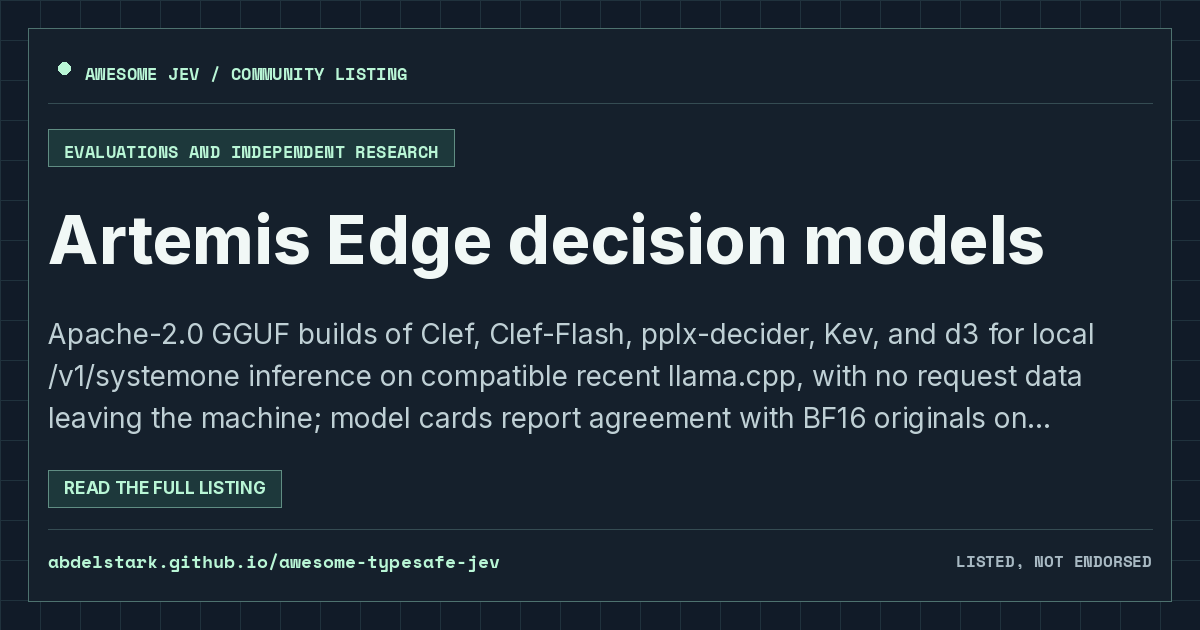
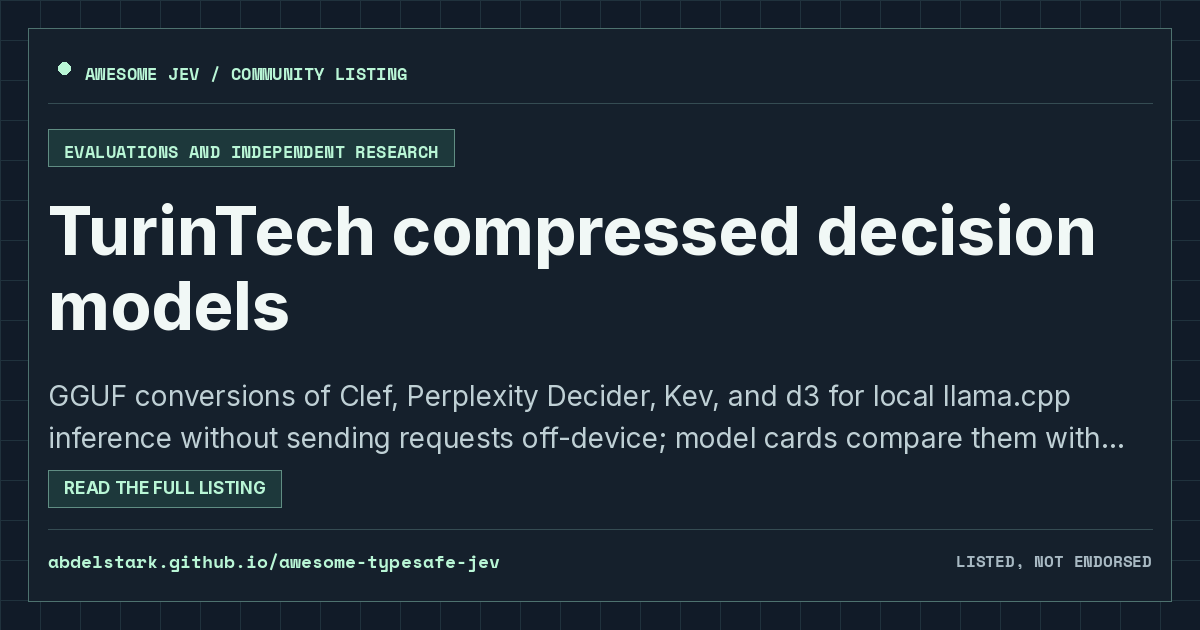
Regenerate site files and keep the TurinTech project page URL
The collection moved to a new slug. A permalink override keeps the
existing project page and card at their old paths, as done for the
Jev Chat move.

Changed region(s): [[0.0308, 0.4524, 0.925, 0.7238], [0.0308, 0.3016, 0.925, 0.4524]]

diff --git a/projects/site-huggingface-co-collections-turintech-artemis-edge-decision-models-6accea74eb7016a886f25fdb.html b/projects/site-huggingface-co-collections-turintech-artemis-edge-decision-models-6accea74eb7016a886f25fdb.html
@@ -1,26 +1,26 @@
 ---
 layout: "resource"
-title: "Artemis Edge decision models | Awesome Jev"
-description: "Apache-2.0 GGUF builds of Clef, Clef-Flash, pplx-decider, Kev, and d3 for local /v1/systemone inference on compatible recent llama.cpp, with no request data leaving the machine; model cards report agreement with BF16 originals on 2,000 decisions, held-out results, and public-quantization comparisons, while their recommended files disagree with the originals on about 2 to 8% of test decisions and smaller variants can differ more."
+title: "TurinTech compressed decision models | Awesome Jev"
+description: "GGUF conversions of Clef, Perplexity Decider, Kev, and d3 for local llama.cpp inference without sending requests off-device; model cards compare them with the originals and document quality losses."
 permalink: "/projects/site-huggingface-co-collections-turintech-artemis-edge-decision-models-6accea74eb7016a886f25fdb/"
-resource_name: "Artemis Edge decision models"
+resource_name: "TurinTech compressed decision models"
 resource_slug: "site-huggingface-co-collections-turintech-artemis-edge-decision-models-6accea74eb7016a886f25fdb"
-resource_url: "https://huggingface.co/collections/turintech/artemis-edge-decision-models-6accea74eb7016a886f25fdb"
-description_markdown: "Apache-2.0 GGUF builds of Clef, Clef-Flash, pplx-decider, Kev, and d3 for local `/v1/systemone` inference on compatible recent llama.cpp, with no request data leaving the machine; model cards report agreement with BF16 originals on 2,000 decisions, held-out results, and public-quantization comparisons, while their recommended files disagree with the originals on about 2 to 8% of test decisions and smaller variants can differ more."
+resource_url: "https://huggingface.co/collections/turintech/compressed-decision-models-6accea74eb7016a886f25fdb"
+description_markdown: "GGUF conversions of Clef, Perplexity Decider, Kev, and d3 for local llama.cpp inference without sending requests off-device; model cards compare them with the originals and document quality losses."
 category_name: "Evaluations and independent research"
 category_id: "evaluations-and-independent-research"
 social_image: "/assets/cards/site-huggingface-co-collections-turintech-artemis-edge-decision-models-6accea74eb7016a886f25fdb.png"
 related:
-  - name: "Awesome Jev Robustness"
-    permalink: "/projects/gh-yifan-lan-awesome-jev-robustness/"
-    description: "Curated index of independent Jev tests grouped by calibration, consistency, perturbation, injection, abstention, failure modes, and language; it links original sources, reports their numbers as author findings, and keeps task benchmarks without a robustness angle in a separate data file."
-    image: "/assets/cards/gh-yifan-lan-awesome-jev-robustness.png"
-  - name: "blink"
-    permalink: "/projects/gh-thegovind-blink/"
-    description: "Self-hosted typed-decision models with Apache-2.0 code that return Choice, Noul, and Score option probabilities in one forward pass per batch through a TypeSafe-compatible API; the weights are non-commercial research and evaluation only, and there is no hosted TypeSafe-compatible endpoint."
-    image: "/assets/cards/gh-thegovind-blink.png"
-  - name: "Bosun v3.1"
-    permalink: "/projects/site-huggingface-co-hanno-labs-bosun-v3-1-1-7b/"
-    description: "Apache-2.0 open-weight Qwen3 decision model family with released 0.6B and 1.7B weights and shipped choice, score, and noul inference; a separate Jev-style alternative, not hosted Jev."
-    image: "/assets/cards/site-huggingface-co-hanno-labs-bosun-v3-1-1-7b.png"
+  - name: "TypeSafe AI Benchmark"
+    permalink: "/projects/gh-iammrduncan-typesafe-ai-benchmark/"
+    description: "Side-by-side Jev and Qwen-on-Cerebras comparison with raw exports, cost accounting, methodology, and task-specific limitations."
+    image: "/assets/cards/gh-iammrduncan-typesafe-ai-benchmark.png"
+  - name: "Verdict"
+    permalink: "/projects/gh-manavarya09-verdict/"
+    description: "Apache-2.0 118M multilingual bi-encoder for Choice, Score, and Noul on a System One-compatible endpoint, with temperature scaling and optional split-conformal abstention whose coverage depends on its calibration assumptions; it can run locally on CPU or in a browser through ONNX, and the author's reported calibration and typed-decision results are task-specific, including a lower score than Laya on the published typed-decision suite."
+    image: "/assets/cards/gh-manavarya09-verdict.png"
+  - name: "Vev"
+    permalink: "/projects/gh-xiaooolong-vev/"
+    description: "Independent Jev-style decision server with vision input, fine-tuned from Qwen3.5 4B and 9B, that answers Choice, Score, and Noul questions about text, JSON, and images, with screenshots or photos placed directly in state, through a /v1/systemone-compatible server; the repository has Apache-2.0 code and per-set results on public text and image judgment sets, requests are processed on your own GPU after the weights download from Hugging Face, and the weights are CC BY-NC 4.0, for non-commercial use only."
+    image: "/assets/cards/gh-xiaooolong-vev.png"
 ---

diff --git a/categories/evaluations-and-independent-research.html b/categories/evaluations-and-independent-research.html
@@ -7,11 +7,6 @@ category_name: "Evaluations and independent research"
 category_id: "evaluations-and-independent-research"
 social_image: "/assets/category-cards/evaluations-and-independent-research.png"
 resources:
-  - name: "Artemis Edge decision models"
-    url: "https://huggingface.co/collections/turintech/artemis-edge-decision-models-6accea74eb7016a886f25fdb"
-    description: "Apache-2.0 GGUF builds of Clef, Clef-Flash, pplx-decider, Kev, and d3 for local /v1/systemone inference on compatible recent llama.cpp, with no request data leaving the machine; model cards report agreement with BF16 originals on 2,000 decisions, held-out results, and public-quantization comparisons, while their recommended files disagree with the originals on about 2 to 8% of test decisions and smaller variants can differ more."
-    permalink: "/projects/site-huggingface-co-collections-turintech-artemis-edge-decision-models-6accea74eb7016a886f25fdb/"
-    image: "/assets/cards/site-huggingface-co-collections-turintech-artemis-edge-decision-models-6accea74eb7016a886f25fdb.png"
   - name: "Awesome Jev Robustness"
     url: "https://github.com/Yifan-Lan/awesome-jev-robustness"
     description: "Curated index of independent Jev tests grouped by calibration, consistency, perturbation, injection, abstention, failure modes, and language; it links original sources, reports their numbers as author findings, and keeps task benchmarks without a robustness angle in a separate data file."
@@ -272,6 +267,11 @@ resources:
     description: "MIT-licensed, locally-deployed decision layer for complex bounded decisions: two frozen open-weight readers, four readings (letter + per-candidate yes/no) fused fit-free and routed by agreement into auto-release vs human review; eight decision suites and the RAG reranking pass benchmarked — including DecisionBench's 35 real-world task categories — with coverage–accuracy curves. It does not call the TypeSafe API, and its equal-weight fusion still trails the strongest single reading at some high-precision operating points."
     permalink: "/projects/gh-feiliuem-tetrajev/"
     image: "/assets/cards/gh-feiliuem-tetrajev.png"
+  - name: "TurinTech compressed decision models"
+    url: "https://huggingface.co/collections/turintech/compressed-decision-models-6accea74eb7016a886f25fdb"
+    description: "GGUF conversions of Clef, Perplexity Decider, Kev, and d3 for local llama.cpp inference without sending requests off-device; model cards compare them with the originals and document quality losses."
+    permalink: "/projects/site-huggingface-co-collections-turintech-artemis-edge-decision-models-6accea74eb7016a886f25fdb/"
+    image: "/assets/cards/site-huggingface-co-collections-turintech-artemis-edge-decision-models-6accea74eb7016a886f25fdb.png"
   - name: "TypeSafe AI Benchmark"
     url: "https://github.com/iammrduncan/typesafe-ai-benchmark"
     description: "Side-by-side Jev and Qwen-on-Cerebras comparison with raw exports, cost accounting, methodology, and task-specific limitations."

diff --git a/projects/gh-lexmount-webjev.html b/projects/gh-lexmount-webjev.html
@@ -15,12 +15,12 @@ related:
     permalink: "/projects/site-doi-org-10-5281-zenodo-22901853/"
     description: "Independent measurement of Jev’s typed decisions as one of three judgment layers run on identical items (Laya locally, Jev and a frontier model remotely), with per-call ledger-based cost accounting and Murphy/Brier/ECE calibration against binary ground truth; the Jev-specific findings are a verdict vocabulary reaching three values where six are documented, and a sufficient field that does not separate thin evidence from contradictory evidence, and the claim about contradiction rests on seven live readings that have no JSON artifact behind them, which the write-up states in its own errata rather than leaving to be discovered."
     image: "/assets/cards/site-doi-org-10-5281-zenodo-22901853.png"
-  - name: "Artemis Edge decision models"
-    permalink: "/projects/site-huggingface-co-collections-turintech-artemis-edge-decision-models-6accea74eb7016a886f25fdb/"
-    description: "Apache-2.0 GGUF builds of Clef, Clef-Flash, pplx-decider, Kev, and d3 for local /v1/systemone inference on compatible recent llama.cpp, with no request data leaving the machine; model cards report agreement with BF16 originals on 2,000 decisions, held-out results, and public-quantization comparisons, while their recommended files disagree with the originals on about 2 to 8% of test decisions and smaller variants can differ more."
-    image: "/assets/cards/site-huggingface-co-collections-turintech-artemis-edge-decision-models-6accea74eb7016a886f25fdb.png"
   - name: "Awesome Jev Robustness"
     permalink: "/projects/gh-yifan-lan-awesome-jev-robustness/"
     description: "Curated index of independent Jev tests grouped by calibration, consistency, perturbation, injection, abstention, failure modes, and language; it links original sources, reports their numbers as author findings, and keeps task benchmarks without a robustness angle in a separate data file."
     image: "/assets/cards/gh-yifan-lan-awesome-jev-robustness.png"
+  - name: "blink"
+    permalink: "/projects/gh-thegovind-blink/"
+    description: "Self-hosted typed-decision models with Apache-2.0 code that return Choice, Noul, and Score option probabilities in one forward pass per batch through a TypeSafe-compatible API; the weights are non-commercial research and evaluation only, and there is no hosted TypeSafe-compatible endpoint."
+    image: "/assets/cards/gh-thegovind-blink.png"
 ---

diff --git a/projects/gh-feiliuem-tetrajev.html b/projects/gh-feiliuem-tetrajev.html
@@ -11,6 +11,10 @@ category_name: "Evaluations and independent research"
 category_id: "evaluations-and-independent-research"
 social_image: "/assets/cards/gh-feiliuem-tetrajev.png"
 related:
+  - name: "TurinTech compressed decision models"
+    permalink: "/projects/site-huggingface-co-collections-turintech-artemis-edge-decision-models-6accea74eb7016a886f25fdb/"
+    description: "GGUF conversions of Clef, Perplexity Decider, Kev, and d3 for local llama.cpp inference without sending requests off-device; model cards compare them with the originals and document quality losses."
+    image: "/assets/cards/site-huggingface-co-collections-turintech-artemis-edge-decision-models-6accea74eb7016a886f25fdb.png"
   - name: "TypeSafe AI Benchmark"
     permalink: "/projects/gh-iammrduncan-typesafe-ai-benchmark/"
     description: "Side-by-side Jev and Qwen-on-Cerebras comparison with raw exports, cost accounting, methodology, and task-specific limitations."
@@ -19,8 +23,4 @@ related:
     permalink: "/projects/gh-manavarya09-verdict/"
     description: "Apache-2.0 118M multilingual bi-encoder for Choice, Score, and Noul on a System One-compatible endpoint, with temperature scaling and optional split-conformal abstention whose coverage depends on its calibration assumptions; it can run locally on CPU or in a browser through ONNX, and the author's reported calibration and typed-decision results are task-specific, including a lower score than Laya on the published typed-decision suite."
     image: "/assets/cards/gh-manavarya09-verdict.png"
-  - name: "Vev"
-    permalink: "/projects/gh-xiaooolong-vev/"
-    description: "Independent Jev-style decision server with vision input, fine-tuned from Qwen3.5 4B and 9B, that answers Choice, Score, and Noul questions about text, JSON, and images, with screenshots or photos placed directly in state, through a /v1/systemone-compatible server; the repository has Apache-2.0 code and per-set results on public text and image judgment sets, requests are processed on your own GPU after the weights download from Hugging Face, and the weights are CC BY-NC 4.0, for non-commercial use only."
-    image: "/assets/cards/gh-xiaooolong-vev.png"
 ---

diff --git a/projects/site-doi-org-10-5281-zenodo-22901853.html b/projects/site-doi-org-10-5281-zenodo-22901853.html
@@ -11,10 +11,6 @@ category_name: "Evaluations and independent research"
 category_id: "evaluations-and-independent-research"
 social_image: "/assets/cards/site-doi-org-10-5281-zenodo-22901853.png"
 related:
-  - name: "Artemis Edge decision models"
-    permalink: "/projects/site-huggingface-co-collections-turintech-artemis-edge-decision-models-6accea74eb7016a886f25fdb/"
-    description: "Apache-2.0 GGUF builds of Clef, Clef-Flash, pplx-decider, Kev, and d3 for local /v1/systemone inference on compatible recent llama.cpp, with no request data leaving the machine; model cards report agreement with BF16 originals on 2,000 decisions, held-out results, and public-quantization comparisons, while their recommended files disagree with the originals on about 2 to 8% of test decisions and smaller variants can differ more."
-    image: "/assets/cards/site-huggingface-co-collections-turintech-artemis-edge-decision-models-6accea74eb7016a886f25fdb.png"
   - name: "Awesome Jev Robustness"
     permalink: "/projects/gh-yifan-lan-awesome-jev-robustness/"
     description: "Curated index of independent Jev tests grouped by calibration, consistency, perturbation, injection, abstention, failure modes, and language; it links original sources, reports their numbers as author findings, and keeps task benchmarks without a robustness angle in a separate data file."
@@ -23,4 +19,8 @@ related:
     permalink: "/projects/gh-thegovind-blink/"
     description: "Self-hosted typed-decision models with Apache-2.0 code that return Choice, Noul, and Score option probabilities in one forward pass per batch through a TypeSafe-compatible API; the weights are non-commercial research and evaluation only, and there is no hosted TypeSafe-compatible endpoint."
     image: "/assets/cards/gh-thegovind-blink.png"
+  - name: "Bosun v3.1"
+    permalink: "/projects/site-huggingface-co-hanno-labs-bosun-v3-1-1-7b/"
+    description: "Apache-2.0 open-weight Qwen3 decision model family with released 0.6B and 1.7B weights and shipped choice, score, and noul inference; a separate Jev-style alternative, not hosted Jev."
+    image: "/assets/cards/site-huggingface-co-hanno-labs-bosun-v3-1-1-7b.png"
 ---

diff --git a/projects/gh-bladedevoff-stuntd.html b/projects/gh-bladedevoff-stuntd.html
@@ -15,12 +15,12 @@ related:
     permalink: "/projects/gh-feiliuem-tetrajev/"
     description: "MIT-licensed, locally-deployed decision layer for complex bounded decisions: two frozen open-weight readers, four readings (letter + per-candidate yes/no) fused fit-free and routed by agreement into auto-release vs human review; eight decision suites and the RAG reranking pass benchmarked — including DecisionBench's 35 real-world task categories — with coverage–accuracy curves. It does not call the TypeSafe API, and its equal-weight fusion still trails the strongest single reading at some high-precision operating points."
     image: "/assets/cards/gh-feiliuem-tetrajev.png"
+  - name: "TurinTech compressed decision models"
+    permalink: "/projects/site-huggingface-co-collections-turintech-artemis-edge-decision-models-6accea74eb7016a886f25fdb/"
+    description: "GGUF conversions of Clef, Perplexity Decider, Kev, and d3 for local llama.cpp inference without sending requests off-device; model cards compare them with the originals and document quality losses."
+    image: "/assets/cards/site-huggingface-co-collections-turintech-artemis-edge-decision-models-6accea74eb7016a886f25fdb.png"
   - name: "TypeSafe AI Benchmark"
     permalink: "/projects/gh-iammrduncan-typesafe-ai-benchmark/"
     description: "Side-by-side Jev and Qwen-on-Cerebras comparison with raw exports, cost accounting, methodology, and task-specific limitations."
     image: "/assets/cards/gh-iammrduncan-typesafe-ai-benchmark.png"
-  - name: "Verdict"
-    permalink: "/projects/gh-manavarya09-verdict/"
-    description: "Apache-2.0 118M multilingual bi-encoder for Choice, Score, and Noul on a System One-compatible endpoint, with temperature scaling and optional split-conformal abstention whose coverage depends on its calibration assumptions; it can run locally on CPU or in a browser through ONNX, and the author's reported calibration and typed-decision results are task-specific, including a lower score than Laya on the published typed-decision suite."
-    image: "/assets/cards/gh-manavarya09-verdict.png"
 ---

diff --git a/projects/gh-samratduttaofficial-watersheep.html b/projects/gh-samratduttaofficial-watersheep.html
@@ -19,8 +19,8 @@ related:
     permalink: "/projects/site-doi-org-10-5281-zenodo-22901853/"
     description: "Independent measurement of Jev’s typed decisions as one of three judgment layers run on identical items (Laya locally, Jev and a frontier model remotely), with per-call ledger-based cost accounting and Murphy/Brier/ECE calibration against binary ground truth; the Jev-specific findings are a verdict vocabulary reaching three values where six are documented, and a sufficient field that does not separate thin evidence from contradictory evidence, and the claim about contradiction rests on seven live readings that have no JSON artifact behind them, which the write-up states in its own errata rather than leaving to be discovered."
     image: "/assets/cards/site-doi-org-10-5281-zenodo-22901853.png"
-  - name: "Artemis Edge decision models"
-    permalink: "/projects/site-huggingface-co-collections-turintech-artemis-edge-decision-models-6accea74eb7016a886f25fdb/"
-    description: "Apache-2.0 GGUF builds of Clef, Clef-Flash, pplx-decider, Kev, and d3 for local /v1/systemone inference on compatible recent llama.cpp, with no request data leaving the machine; model cards report agreement with BF16 originals on 2,000 decisions, held-out results, and public-quantization comparisons, while their recommended files disagree with the originals on about 2 to 8% of test decisions and smaller variants can differ more."
-    image: "/assets/cards/site-huggingface-co-collections-turintech-artemis-edge-decision-models-6accea74eb7016a886f25fdb.png"
+  - name: "Awesome Jev Robustness"
+    permalink: "/projects/gh-yifan-lan-awesome-jev-robustness/"
+    description: "Curated index of independent Jev tests grouped by calibration, consistency, perturbation, injection, abstention, failure modes, and language; it links original sources, reports their numbers as author findings, and keeps task benchmarks without a robustness angle in a separate data file."
+    image: "/assets/cards/gh-yifan-lan-awesome-jev-robustness.png"
 ---

diff --git a/projects/gh-featherless-ai-simple-jev.html b/projects/gh-featherless-ai-simple-jev.html
@@ -19,8 +19,8 @@ related:
     permalink: "/projects/gh-feiliuem-tetrajev/"
     description: "MIT-licensed, locally-deployed decision layer for complex bounded decisions: two frozen open-weight readers, four readings (letter + per-candidate yes/no) fused fit-free and routed by agreement into auto-release vs human review; eight decision suites and the RAG reranking pass benchmarked — including DecisionBench's 35 real-world task categories — with coverage–accuracy curves. It does not call the TypeSafe API, and its equal-weight fusion still trails the strongest single reading at some high-precision operating points."
     image: "/assets/cards/gh-feiliuem-tetrajev.png"
-  - name: "TypeSafe AI Benchmark"
-    permalink: "/projects/gh-iammrduncan-typesafe-ai-benchmark/"
-    description: "Side-by-side Jev and Qwen-on-Cerebras comparison with raw exports, cost accounting, methodology, and task-specific limitations."
-    image: "/assets/cards/gh-iammrduncan-typesafe-ai-benchmark.png"
+  - name: "TurinTech compressed decision models"
+    permalink: "/projects/site-huggingface-co-collections-turintech-artemis-edge-decision-models-6accea74eb7016a886f25fdb/"
+    description: "GGUF conversions of Clef, Perplexity Decider, Kev, and d3 for local llama.cpp inference without sending requests off-device; model cards compare them with the originals and document quality losses."
+    image: "/assets/cards/site-huggingface-co-collections-turintech-artemis-edge-decision-models-6accea74eb7016a886f25fdb.png"
 ---

diff --git a/scripts/export.py b/scripts/export.py
@@ -29,6 +29,7 @@ PERMALINK_OVERRIDES = {
     # The repository moved; keep previously shared project pages and cards live.
     "https://github.com/jev-chat/jev-chat-jarvis": "gh-finderchangchang-jev-chat-jarvis",
     "https://github.com/deyna256/langchain-skill-router": "gh-deyna256-langchain-loadout",
+    "https://huggingface.co/collections/turintech/compressed-decision-models-6accea74eb7016a886f25fdb": "site-huggingface-co-collections-turintech-artemis-edge-decision-models-6accea74eb7016a886f25fdb",
 }
 
 
